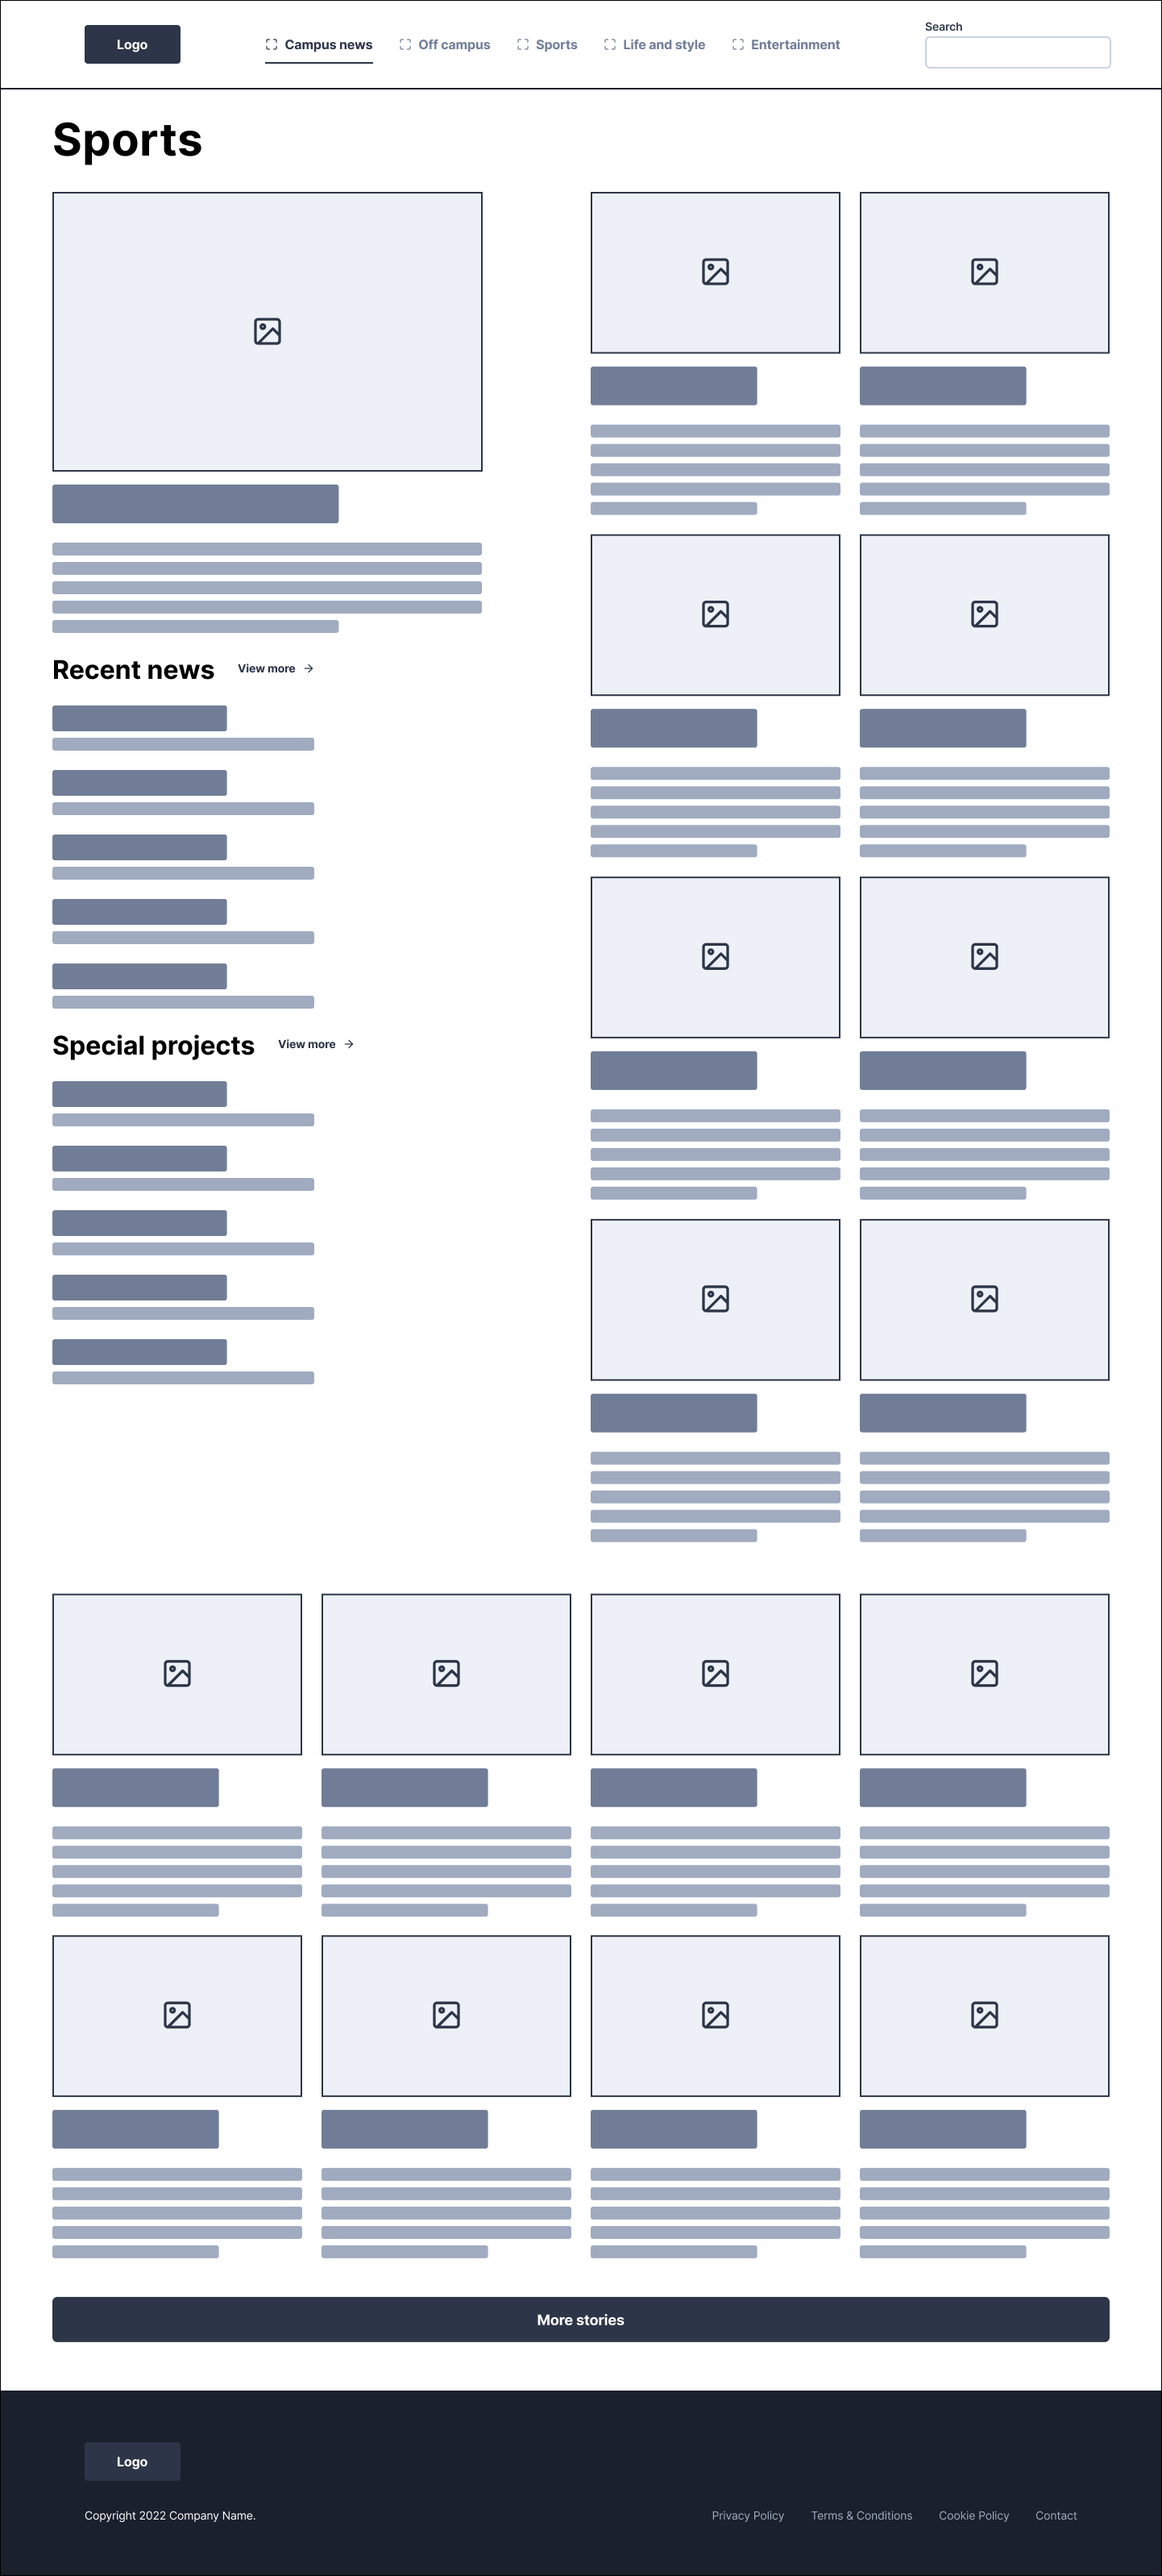
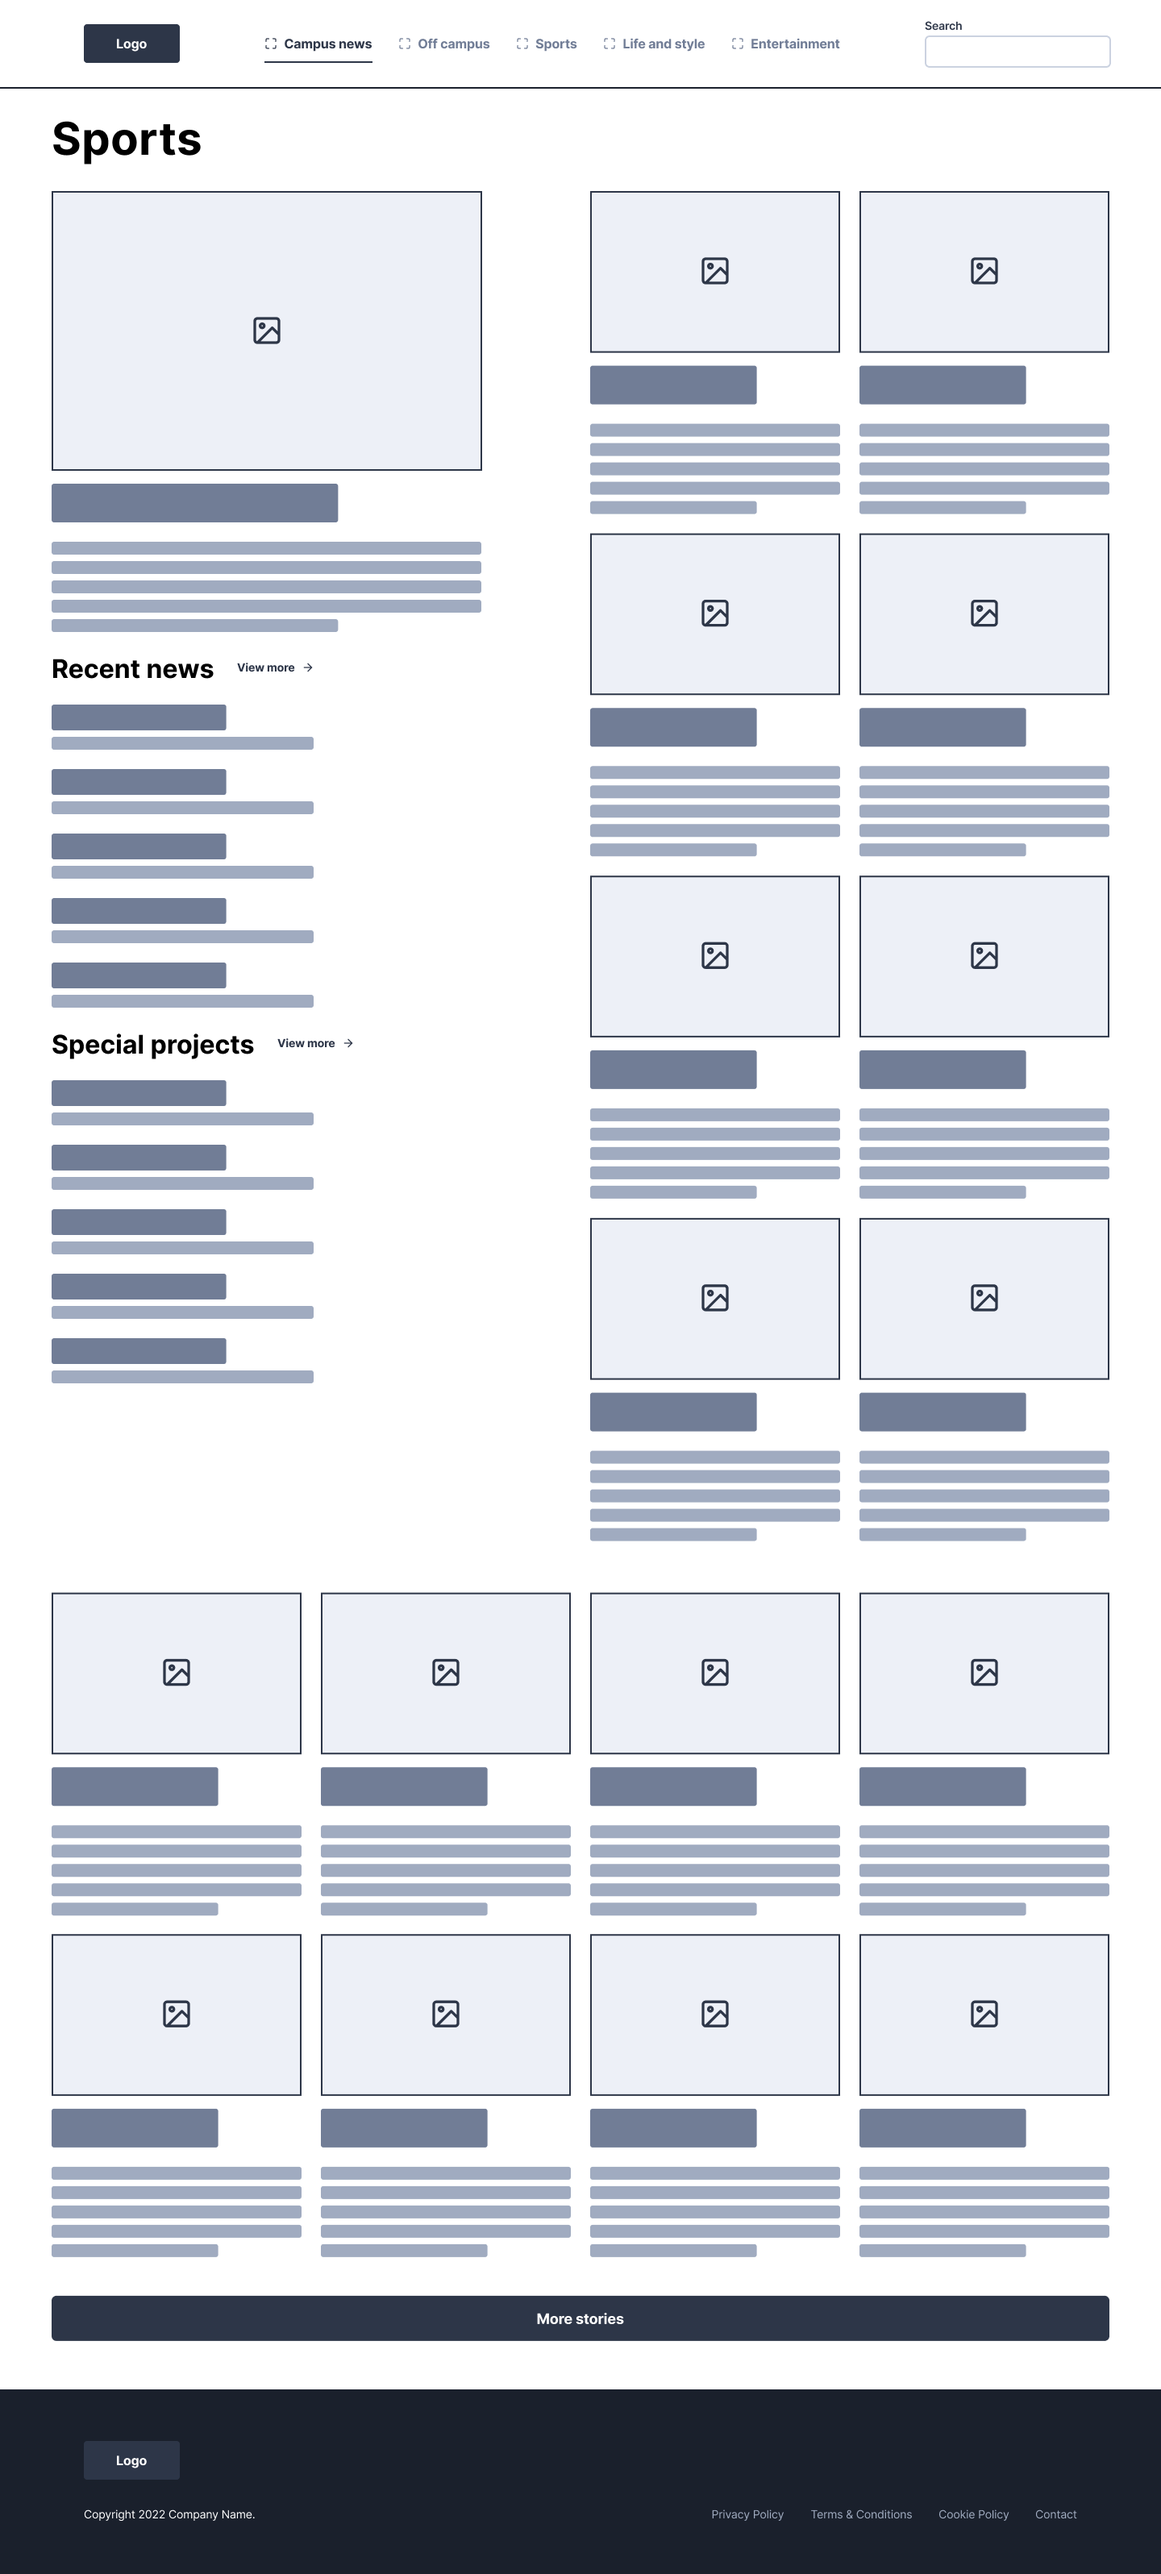
rounded corners

Changed region(s): [[0.25, 0.0, 0.2812, 0.031], [0.2188, 0.124, 0.25, 0.155], [0.0625, 0.031, 0.0938, 0.062]]

diff --git a/style.css b/style.css
@@ -1086,7 +1086,7 @@ p:has(.HeroMainSubHeading) {
     /* position: relative; */
     flex-direction: row;
     background-color: #fff;
-    border-radius: .5rem;
+    border-radius: 1.5rem;
     text-decoration: none;
     color: initial;
     /* max-height: 500px; */
@@ -1341,12 +1341,17 @@ form .Row {
     flex-direction: column;
     gap: 3.5rem;
 }
+
 .CaseStudyPart {
     display: flex;
     flex-direction: column;
     gap: 2rem;
     width: clamp(30rem, 50vw, 60rem);
     align-self: center;
+}
+
+.CaseStudyPart img, .CaseStudyPart video {
+    border-radius: 1.5rem;
 }
 /* .CaseStudySection {
     display: flex;
@@ -1368,6 +1373,9 @@ form .Row {
     display: flex;
     flex-direction: column;
     gap: 1rem;
+}
+.SectionMiniContent img, .SectionMiniContent video {
+    border-radius: 1.5rem;
 }
 .SectionText {
     display: flex;
@@ -1397,6 +1405,7 @@ form .Row {
 .ContentCard img, .ContentCard video {
     /* width: 25rem; */
     max-width: 100%;
+    border-radius: .5rem;
     /* height: fit-content; */
     }
     .CardRow {
@@ -1407,7 +1416,7 @@ form .Row {
     .CardColumn {
         display: flex;
         flex-direction: column;
-        gap: .5rem;
+        gap: 1rem;
     }
     .ContentCard {
         display: flex;
@@ -1415,6 +1424,7 @@ form .Row {
         gap: 1.5rem;
         padding: 1rem;
         background-color: #ffffff;
+        border-radius: 1.5rem;
         /* width: 100%; */
     }
     .ContentCardText {
@@ -1613,7 +1623,9 @@ form .Row {
     backdrop-filter: blur( 26.5px );
     -webkit-backdrop-filter: blur( 26.5px); */
 }
-
+.AboutHero img {
+    border-radius: 1.5rem;
+}
 
 .ImageCaption {
     font-size: 0.9rem;
@@ -1666,6 +1678,7 @@ form .Row {
     width: 100%;
     height: 100%;
     object-fit: cover;
+    border-radius: 1.5rem;
 }
 
 .MapsGrid__quote {
@@ -1675,6 +1688,7 @@ form .Row {
     padding: 2rem;
     display: flex;
     height: 100%;
+    border-radius: 1.5rem;
     /* align-items: center; */
     /* justify-content: center; */
     
@@ -1793,6 +1807,9 @@ form .Row {
 /* Make sure the transition duration is the same as the "isTransitioning" value in index.js */
 
 .SliderImage { 
+    border-radius: 1.5rem;
+    scrollbar-width: none;
+    -ms-overflow-style: none;
     flex-shrink: 0;
     /* transition: opacity 0.5s ease-in-out, width 0.5s ease-in-out; */
     transition: opacity 0.7s cubic-bezier(0.00,0.99,0.12,0.97), width 0.7s cubic-bezier(0.00,0.99,0.12,0.97);
@@ -1811,6 +1828,9 @@ form .Row {
 box-shadow: 0px 4px 25px -9px rgba(0,0,0,0.25);
 /* transition: .3s ease-in-out; */
     
+}
+.SliderImage::-webkit-scrollbar {
+    display: none;
 }
 
 .SliderImage.SlideActive {
@@ -1882,6 +1902,7 @@ box-shadow: 0px 4px 25px -9px rgba(0,0,0,0.40);
 .SliderButtonGroup {
     display: flex;
     gap: 1rem;
+    justify-content: center;
     /* padding-left: 16rem;
     padding-right: 16rem; */
 }
